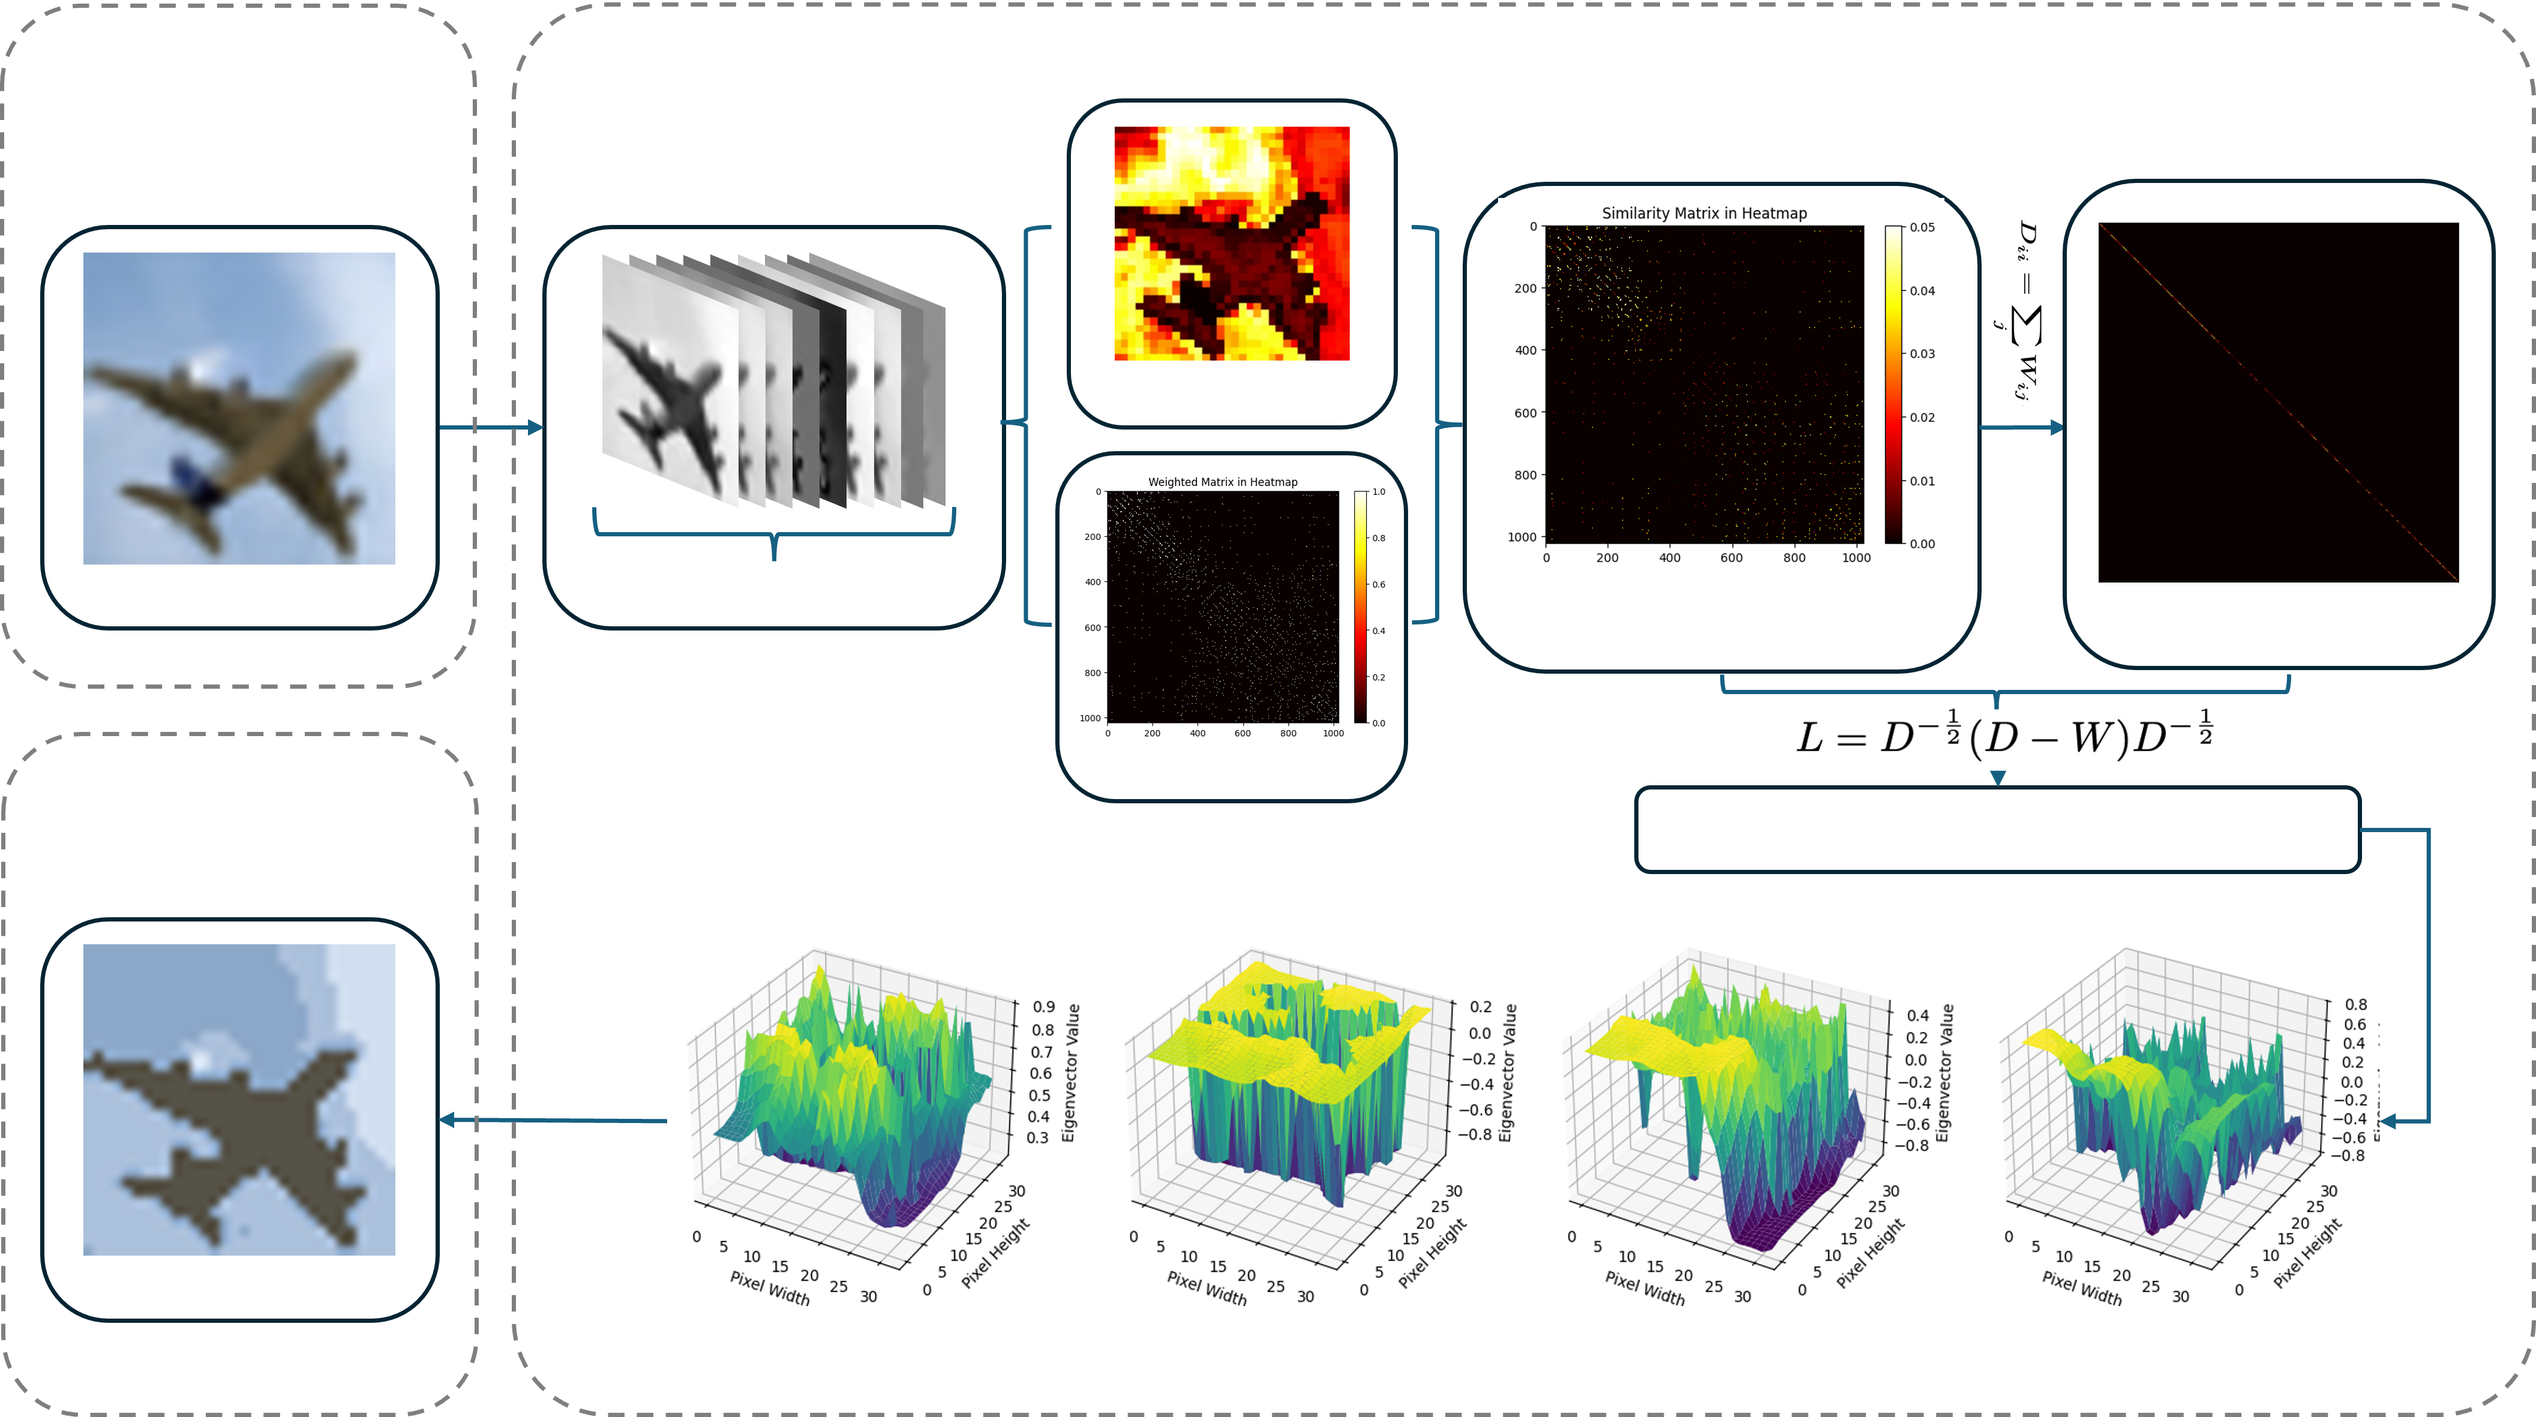
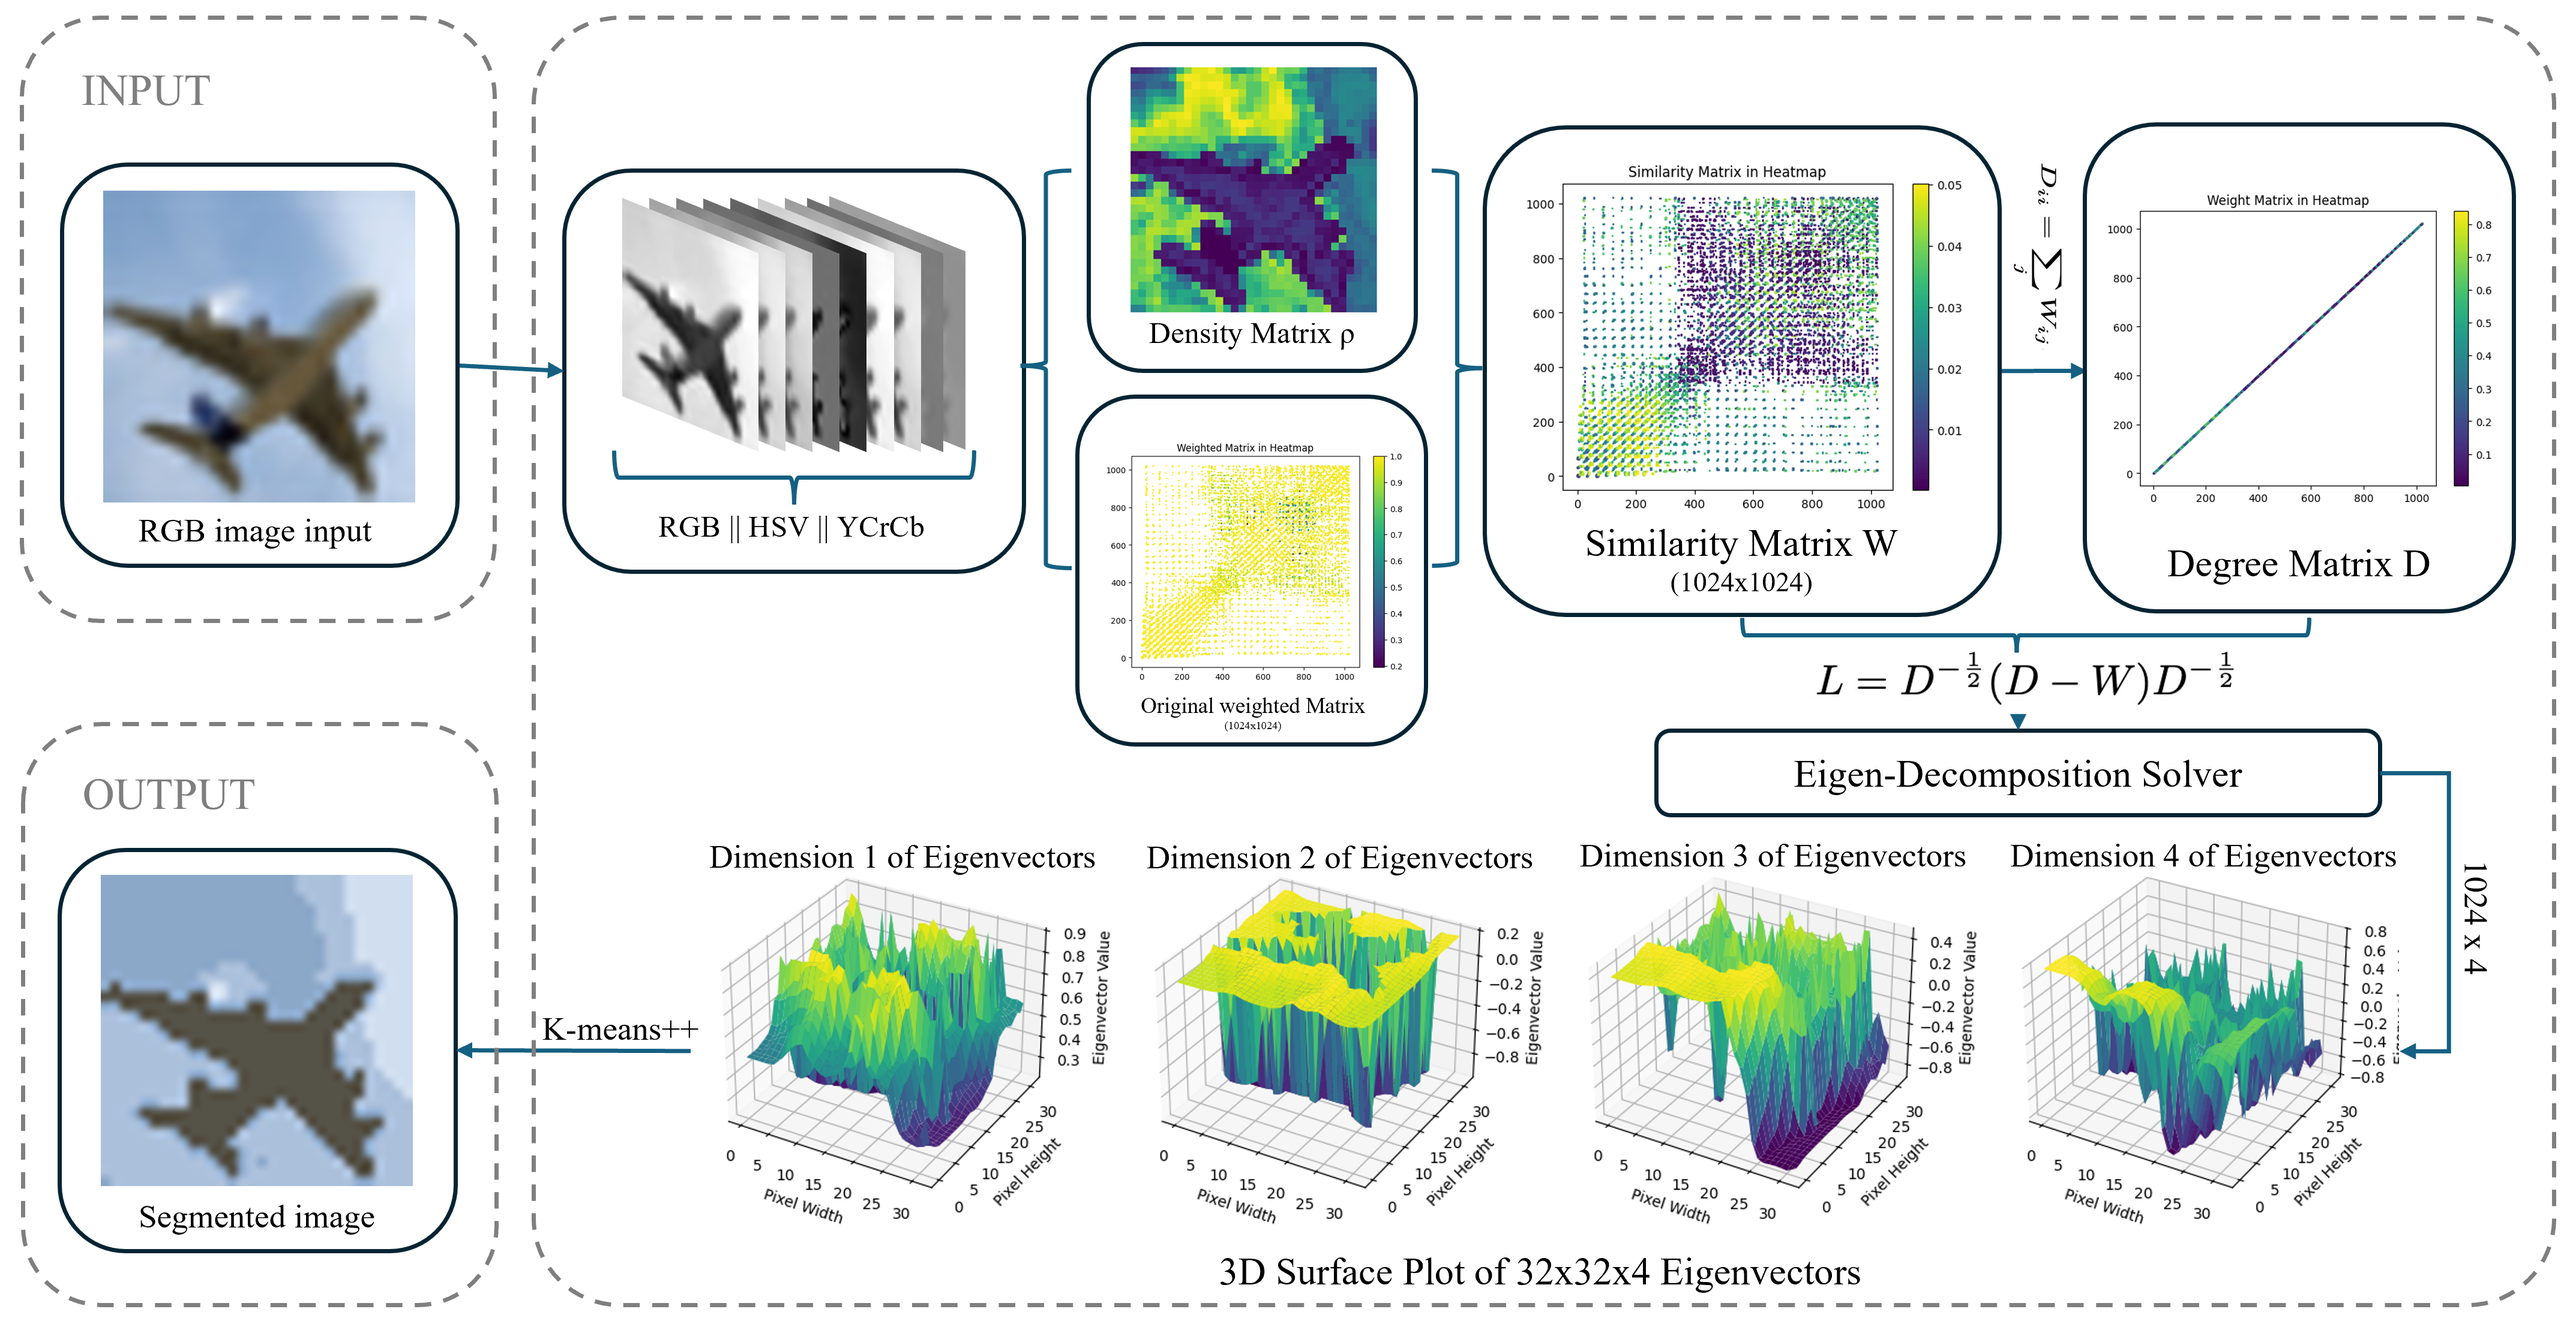
updated README.md

diff --git a/README.md b/README.md
@@ -11,7 +11,7 @@
 ## Overview
 This project implements and compares three image segmentation algorithms: K-means Clustering, Spectral Clustering, and a novel Density-Weighted Spectral Clustering method that integrates multiple color spaces. The segmentation is performed on the CIFAR-10 dataset, specifically focusing on images of horses, deer, and airplanes. The overview of our method is shown as below:
 ![Overview of Density Weighted Spectral Clustering with Multi-Colour Space![image](https://github.com/YueYin27/density-weighted-spectral-clustering/assets/75305926/585eba7b-c84e-4bbe-b0a5-3459413f5220)
-.](readme_figures/figures.png)
+.](readme_figures/method.png)
 
 ## Dataset
 The CIFAR-10 dataset consists of 60,000 32x32 color images in 10 different classes. For this project, we focus on three classes: horse, deer, and airplane. Each class contains 6,000 images, divided into 5,000 training images and 1,000 test images.
